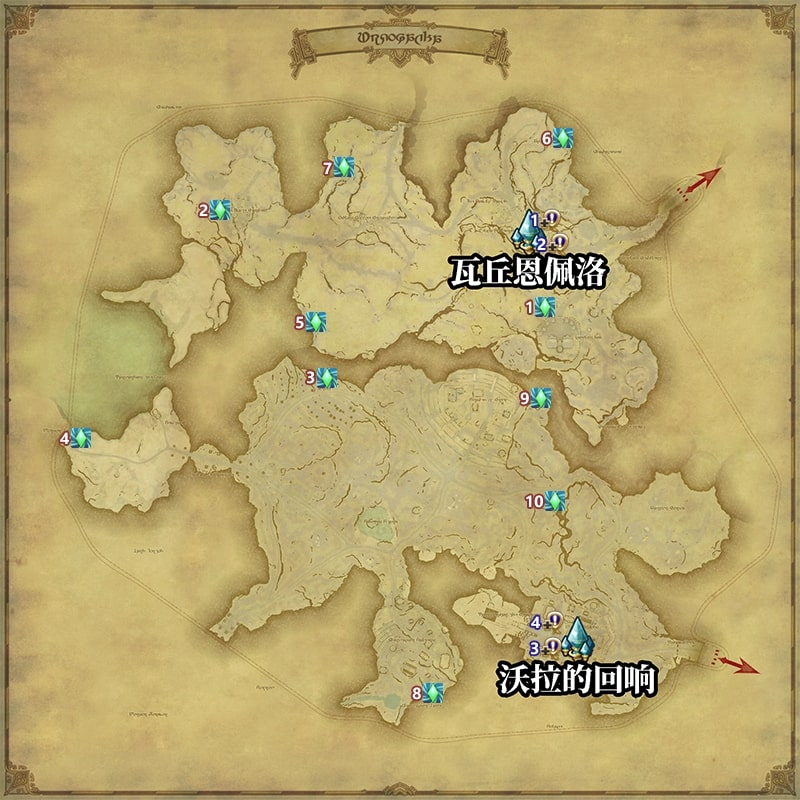
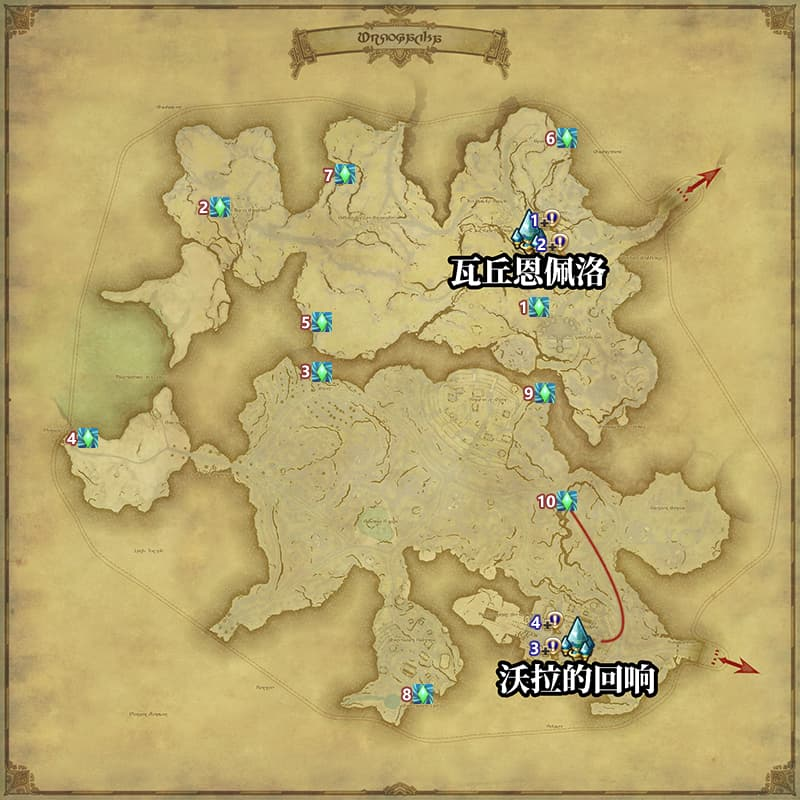
风脉更新

diff --git a/lajipai/js/common.js b/lajipai/js/common.js
@@ -19,7 +19,7 @@ $(function () {
 function load() {
     $('#item').append(
         '<li style="margin-right: 500px;"><a onclick="check()"><img src="image/更新速览.png"><div><p class="buff" style="color: white;">New!!</p></div></a><p>更新速览</p></li>'
-        , '<li><a onclick="aether()"><img style="animation-delay:0.6s;" src="image/风脉.png"><div><p class="buff" style="color: orange;">///</p></div></a><p>风脉</p></li>'
+        , '<li><a onclick="aether()"><img style="animation-delay:0.6s;" src="image/风脉.png"><div><p class="buff" style="color: orange;">Update</p></div></a><p>风脉</p></li>'
         , '<li style="margin-right: 400px;"><a onclick="explore()"><img style="animation-delay:0.7s;" src="image/探索笔记.png"><div><p class="buff" style="color: orange;">Update</p></div></a><p>探索笔记</p></li>'
         , '<li><a onclick="pets()"><img style="animation-delay:0.7s;" src="image/宠物.png"><div><p class="buff" style="color: orange;">Update</p></div></a><p>宠物一览</p></li>'
         , '<li><a onclick="mounts()"><img style="animation-delay:0.8s;" src="image/坐骑.png"><div><p class="buff" style="color: orange;">Update</p></div></a><p>坐骑一览</p></li>'
